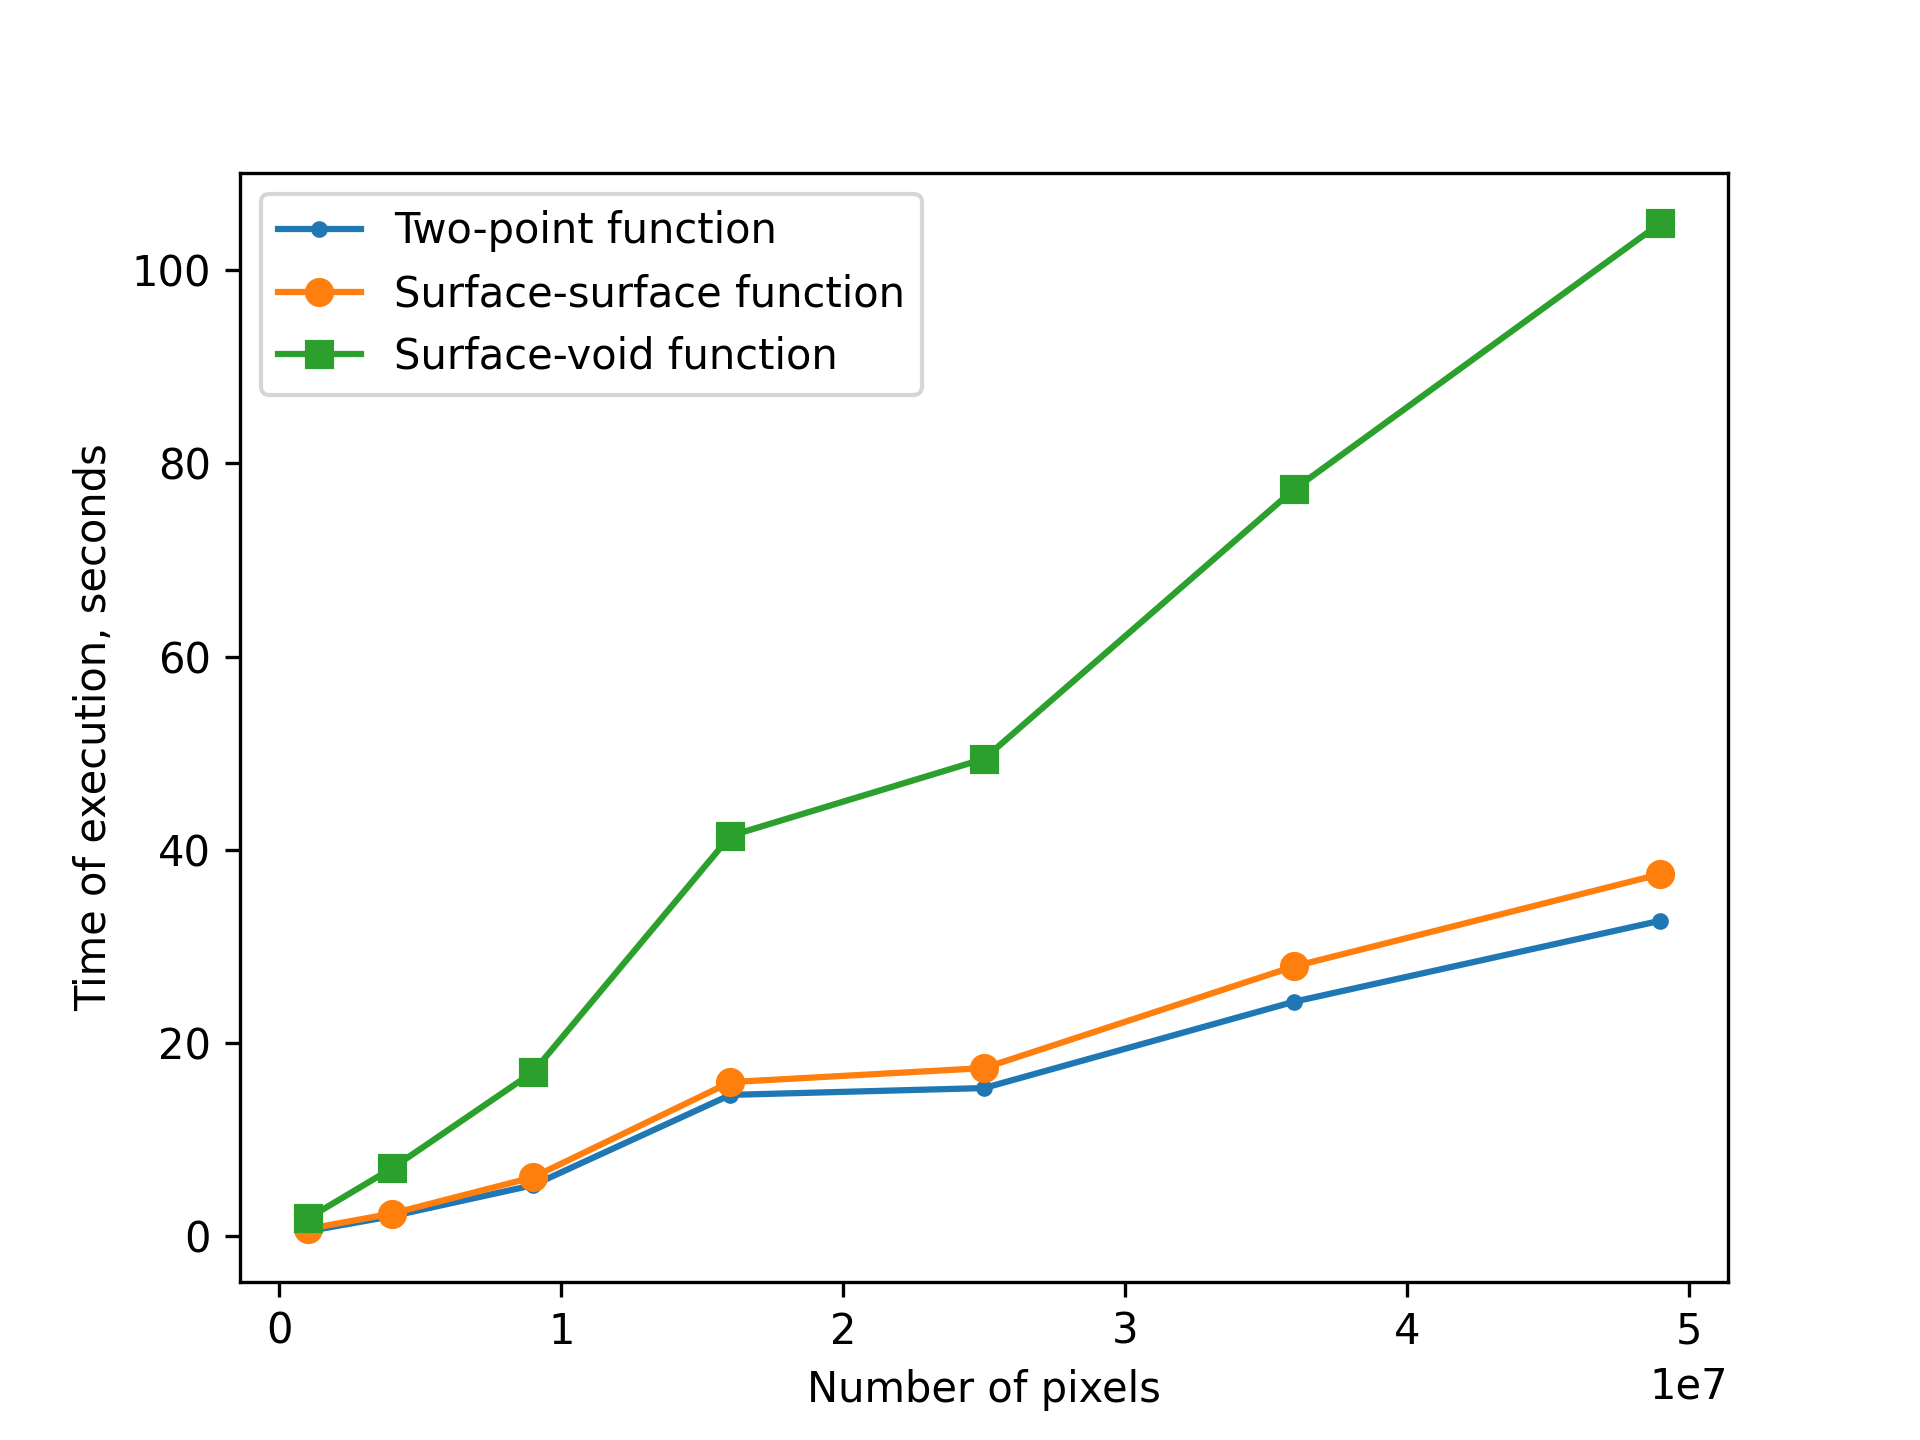
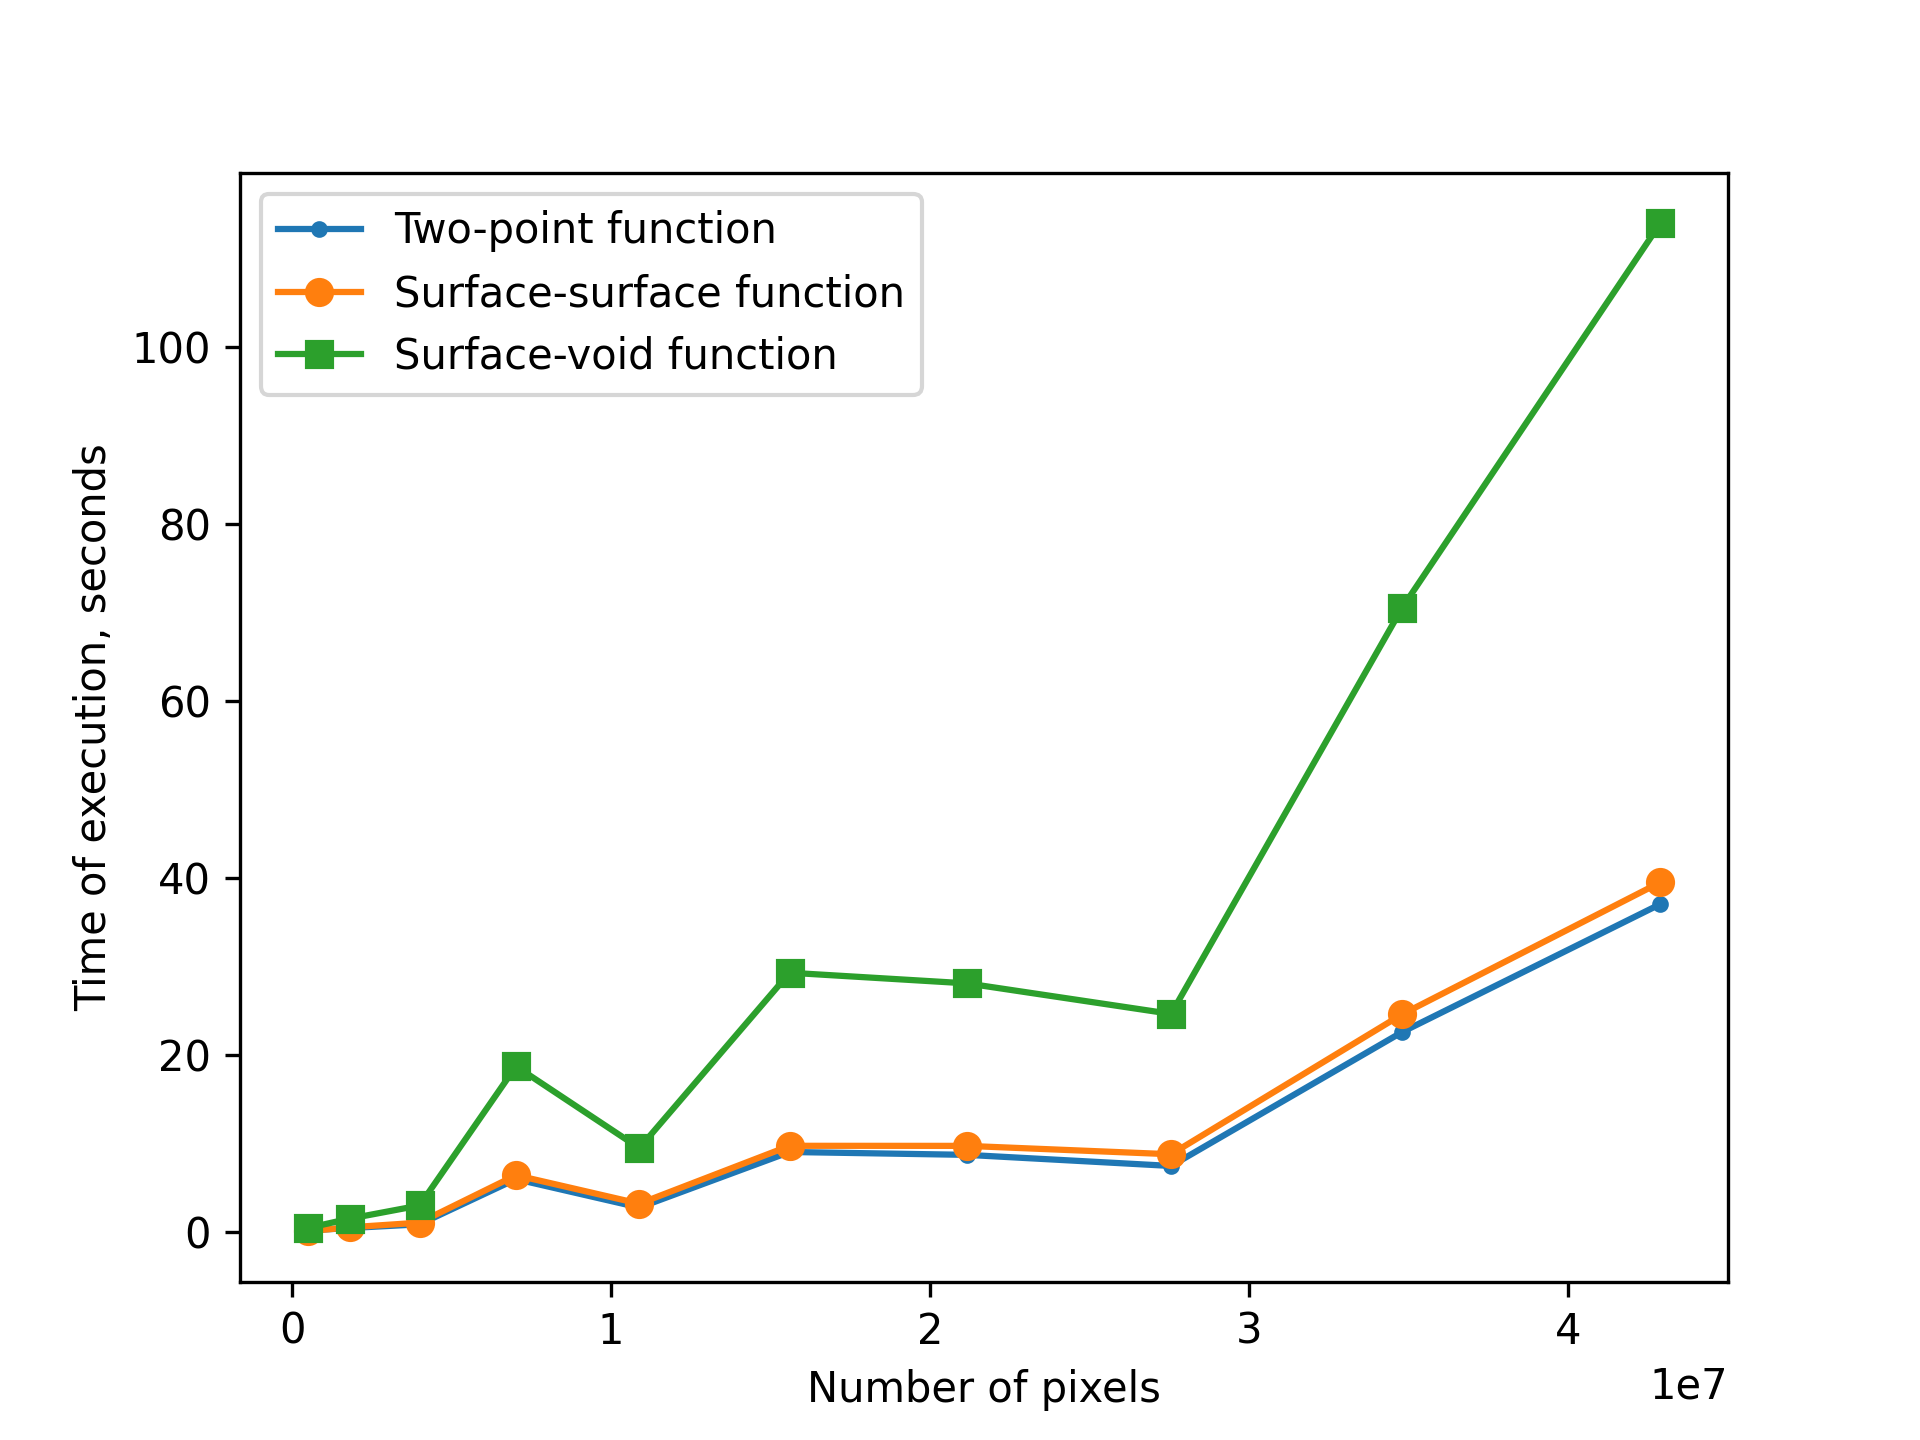
New shitplots

diff --git a/paper-correlations.tex b/paper-correlations.tex
@@ -206,7 +206,10 @@ function in all directions. The scan and map approaches are described in
 
 Our package takes one-, two- or three-dimensional arrays of any element type
 (usually we restrict ourselves to integer numbers of type \code{Int} or
-\code{Int8}) and treats them as homogeneous anisotropic media.
+\code{Int8}) and treats them as homogeneous anisotropic media. The package can
+understand two-phase as well as multiphase systems. Indeed, a multiphase system
+$A$ can be easily converted to a two-phase system $B$ by applying an indicator
+function $\chi(x)$ to each element of $A$ which can be written as $B = \chi(A)$.
 
 Correlation functions can be computed using closed walls (CW) and periodic
 boundary conditions. \textbf{TODO: Describe them}.
@@ -680,10 +683,12 @@ closed walls boundary conditions and computation along axial directions).
 With the \code{Map} module we follow the same procedure. Many functions in
 \code{Map} can utilize Nvidia's GPUs using the CUDA library. For example,
 two-point correlation function uses FFT transform optimized for Nvidia GPUs and
-provided in \code{CUDA.FFT} package. We provide execution times for bot CPU and
+provided in \code{CUDA.FFT} package. We provide execution times for both CPU and
 GPU. The choice between CPU or GPU version is made depending on type of input
 array. If it's \code{CuArray} rather than generic \code{AbstractArray} then CUDA
-implementation is chosen.
+implementation is chosen. Please note, that CPU versions are much slower, so we
+choose a different sides of squares ($s = 700, 1350, \dots, 7000$) and cubes
+($s = 10, 45, \dots, 350$) for evaluation of the performance.
 
 The measurements of execution time is on \cref{fig:timings}. As you can see, GPU
 versions (when available) are faster than CPU versions and limited only by
